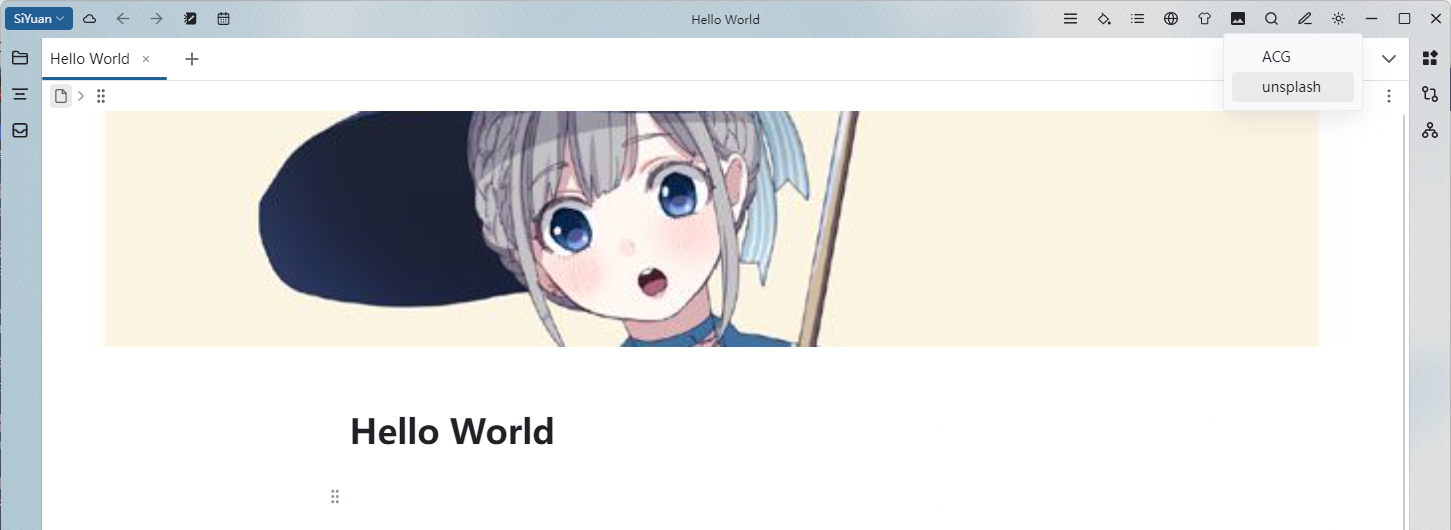
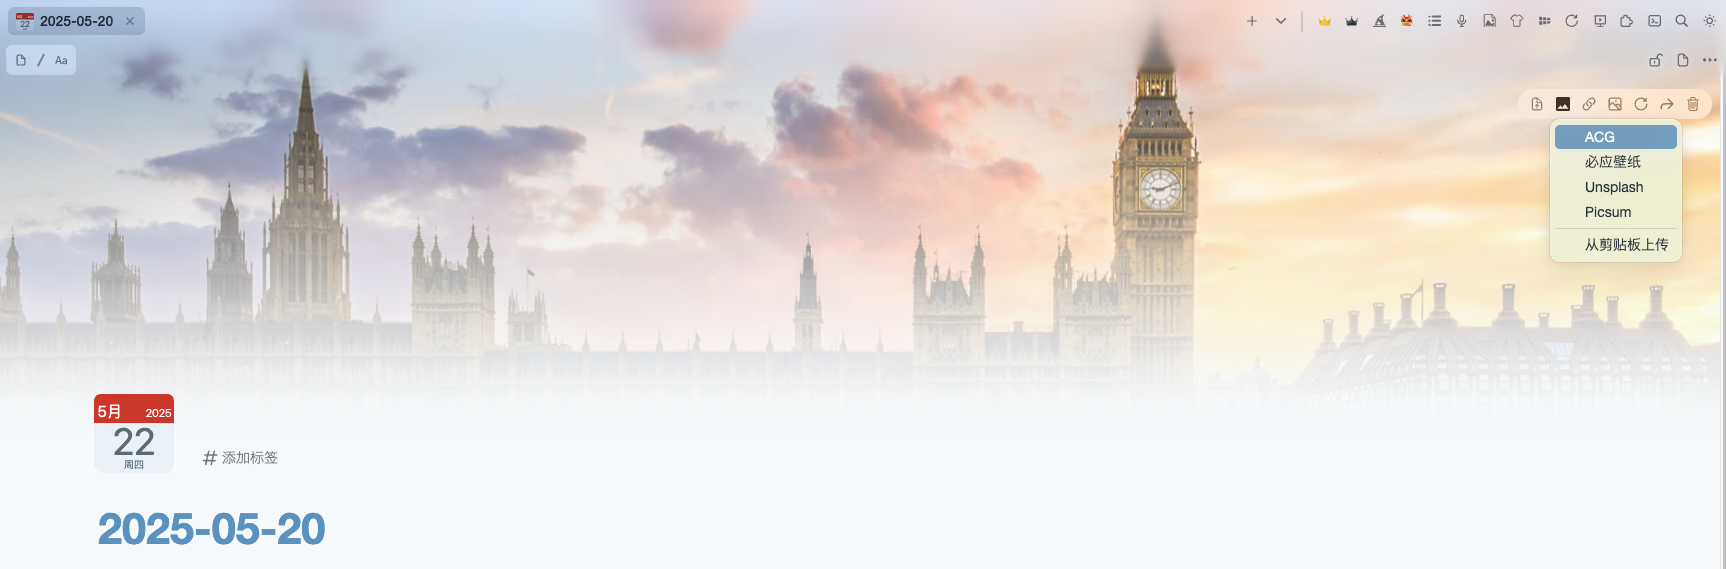
v1.0.0: 全新命题，大改

diff --git a/index.js b/index.js
@@ -1,107 +1,200 @@
-const { Plugin, Menu } = require('siyuan');
+const { Plugin, Menu, showMessage, addIcon } = require('siyuan');
 
-const icon = '<svg viewBox="0 0 1024 1024" version="1.1" xmlns="http://www.w3.org/2000/svg" p-id="1928" width="200" height="200"><path d="M1024 910.222222V113.777778c0-62.577778-51.2-113.777778-113.777778-113.777778H113.777778C51.2 0 0 51.2 0 113.777778v796.444444c0 62.577778 51.2 113.777778 113.777778 113.777778h796.444444c62.577778 0 113.777778-51.2 113.777778-113.777778zM312.888889 597.333333l142.222222 170.666667 199.111111-256L910.222222 853.333333H113.777778l199.111111-256z" p-id="1929"></path></svg>';
+const icon = '<symbol id="icon-more-background" viewBox="0 0 1024 1024" version="1.1" xmlns="http://www.w3.org/2000/symbol" p-id="1928" ><path d="M1024 910.222222V113.777778c0-62.577778-51.2-113.777778-113.777778-113.777778H113.777778C51.2 0 0 51.2 0 113.777778v796.444444c0 62.577778 51.2 113.777778 113.777778 113.777778h796.444444c62.577778 0 113.777778-51.2 113.777778-113.777778zM312.888889 597.333333l142.222222 170.666667 199.111111-256L910.222222 853.333333H113.777778l199.111111-256z" p-id="1929"></path></symbol>';
 
 module.exports = class MoreBackgroundPlugin extends Plugin {
     onload() {
-        const c = this.addTopBar({
-            icon,
-            title: '随机题头图',
-            callback: (e) => {
-                this.showThemesMenu(c.getBoundingClientRect())
-            },
-            position: "right"
-        });
-
         this.types = [
             { label: 'ACG', url: 'https://img.xjh.me/random_img.php?return=302' },
+            { label: '必应壁纸', url: 'https://bing.biturl.top/?format=image&index=random&mkt=zh-CN' },
+            { label: 'Unsplash', url: 'https://unsplash.it/1920/1080?random' },
+            { label: 'Picsum', url: 'https://picsum.photos/1920/1080' }
         ];
 
         this.loadStorage();
+
+        this.addIcons(icon);
+
+        this.eventBus.on('loaded-protyle-static', (e) => {
+            const protyle = e.detail.protyle;
+            const background = protyle.background.element;
+            if (!background) {
+                return;
+            }
+            background.addEventListener('mouseover', (event) => {
+                let el = event.target;
+                if (!el.classList.contains('protyle-top')) {
+                    el = el.closest('.protyle-top');
+                }
+                if (!el) {
+                    return;
+                }
+                if (!el.querySelector('.protyle-icons') || el.querySelector('.protyle-icons > .more-background-icon')) {
+                    return;
+                }
+                const firstIcon = el.querySelector('.protyle-icons > .protyle-icon.ariaLabel');
+                if (!firstIcon) {
+                    return;
+                }
+                const newIcon = document.createElement('span');
+                newIcon.classList.add('protyle-icon');
+                newIcon.classList.add('ariaLabel');
+                newIcon.classList.add('more-background-icon');
+                newIcon.setAttribute('data-link', 'more-background');
+                newIcon.setAttribute('aria-label', this.i18n.moreBackgroundBtn);
+                newIcon.innerHTML = '<svg><use xlink:href="#icon-more-background"></use></svg>';
+                firstIcon.before(newIcon);
+                newIcon.addEventListener('click', (e) => {
+                    this.showThemesMenu(e.target.getBoundingClientRect(), protyle)
+                    e.preventDefault();
+                    e.stopImmediatePropagation();
+                })
+            })
+        })
+
+
     }
 
     async loadStorage() {
         const data = await this.loadData('settings');
         if (!data) {
-            this.saveData('settings', JSON.stringify(this.types));
+            return;
         } else {
-            this.types = typeof data === 'string' ? JSON.parse(data) : data;
+            const types = typeof data === 'string' ? JSON.parse(data) : data;
+            this.types = this.types.concat(types);
         }
     }
 
-    showThemesMenu(c) {
-        console.log(this.types)
+    showThemesMenu(c, protyle) {
         const e = new Menu('MoreBackground');
         this.types.forEach((t) => {
             e.addItem({
                 label: t.label,
-                click: () => this.loadRandomBackground(t.label),
+                icon: null,
+                click: () => this.loadRandomBackground(t.label, protyle),
             })
         })
+        e.addSeparator();
+        e.addItem({
+            label: this.i18n.uploadFromClipboard,
+            icon: 'iconClipboard',
+            click: () => this.uploadFromClipboard(protyle),
+        });
         e.open({ x: c.left, y: c.bottom, isLeft: !1 })
     }
 
-    loadRandomBackground(label) {
+    loadRandomBackground(label, protyle) {
         const url = this.types.find((t) => t.label === label).url;
-        triggerRandomIfNoImg();
-        this.loadImgSetHeader(url);
+        const el = protyle.contentElement;
+        triggerRandomIfNoImg(el);
+        this.loadImgSetHeader(url, protyle);
+        this.lastType = label;
     }
 
-    async loadImgSetHeader(url) {
-        const currentId = getFileID();
-        const headers = document.querySelectorAll(`.protyle-background[data-node-id="${currentId}"] div.protyle-background__img img`)
-        const img = await fetch(url)
-        const imgurl = img.url
-        headers.forEach(
-            el => {
-                el.setAttribute("style", "")
-                el.setAttribute("src", imgurl)
+    async uploadFromClipboard(protyle) {
+        let img;
+        const clipboardItems = await navigator.clipboard.read();
+        for (const clipboardItem of clipboardItems) {
+            if (clipboardItem.types.includes("image/png")) {
+                const blob = await clipboardItem.getType("image/png");
+                const imageURL = URL.createObjectURL(blob);
+                img = imageURL;
+                break;
             }
-        )
-        fetch('/api/attr/setBlockAttrs', {
-            method: 'post',
-            body: JSON.stringify({
-                id: currentId,
-                attrs: {
-                    "title-img": `background-image:url(${imgurl})`
+        }
+        if (!img) {
+            showMessage(this.i18n.noImageInClipboard);
+            return;
+        }
+        const el = protyle.contentElement;
+        triggerRandomIfNoImg(el);
+        this.loadImgBlobSetHeader(img, protyle);
+    }
+
+    async loadImgBlobSetHeader(url, protyle) {
+        const id = protyle.background.ial.id;
+        protyle.background.element.setAttribute('style', 'cursor: wait');
+        let img;
+        try {
+            img = await fetch(url)
+        } catch {
+            showMessage(this.i18n.loadUrlFailed)
+            protyle.background.element.setAttribute('style', 'cursor: wait');
+            return;
+        }
+        const imgurl = img.url
+        try {
+            const res = await fetch(imgurl);
+            const blob = await res.blob();
+            const reader = new FileReader();
+            reader.readAsDataURL(blob);
+            await new Promise((resolve, reject) => {
+                reader.onloadend = () => {
+                    const base64data = reader.result;
+                    fetch('/api/attr/setBlockAttrs', {
+                        method: 'post',
+                        body: JSON.stringify({
+                            id: id,
+                            attrs: {
+                                "title-img": `background-image:url(${base64data})`
+                            }
+                        })
+                    }).finally(() => {
+                        resolve();
+                    })
                 }
-            })
-        })
+                reader.onerror = reject;
+                reader.onabort = reject;
+            });
+        } finally {
+            protyle.background.element.removeAttribute('style');
+        }
+    }
+
+    async loadImgSetHeader(url, protyle) {
+        const id = protyle.background.ial.id;
+        protyle.background.element.setAttribute('style', 'cursor: wait');
+        let img;
+        try {
+            img = await fetch(url)
+        } catch {
+            showMessage(this.i18n.loadUrlFailed)
+            protyle.background.element.setAttribute('style', 'cursor: wait');
+            return;
+        }
+        const imgurl = img.url
+        try {
+            const res = await fetch(imgurl);
+            const blob = await res.blob();
+            const reader = new FileReader();
+            reader.readAsDataURL(blob);
+            await new Promise((resolve, reject) => {
+                reader.onloadend = () => {
+                    const base64data = reader.result;
+                    fetch('/api/attr/setBlockAttrs', {
+                        method: 'post',
+                        body: JSON.stringify({
+                            id: id,
+                            attrs: {
+                                "title-img": `background-image:url(${base64data})`
+                            }
+                        })
+                    }).finally(() => {
+                        resolve();
+                    })
+                }
+                reader.onerror = reject;
+                reader.onabort = reject;
+            });
+        } finally {
+            protyle.background.element.removeAttribute('style');
+        }
     }
 
 }
 
-function getFileID() {
-    //获取当前页面
-    const currentPage = getCurrentPage();
-    //获取当前页面id
-    const currentPageID = currentPage.querySelector(
-        "span.protyle-breadcrumb__item--active"
-    ).getAttribute("data-node-id");
-
-    return currentPageID;
-}
-
-function triggerRandomIfNoImg() {
-    const currentPage = getCurrentPage();
+function triggerRandomIfNoImg(currentPage) {
     currentPage.querySelector('.protyle-background__img > img.fn__none')?.classList.remove('fn__none');
     currentPage.querySelector('.protyle-background')?.setAttribute('style', 'min-height: 30vh;');
     currentPage.querySelector('.protyle-background__img > .protyle-icons > span[data-type="position"]')?.classList.remove('fn__none');
-}
-
-function getCurrentPage() {
-    var currentScreen;
-    var currentPage;
-    try {
-        //获取当前屏幕
-        currentScreen = document.querySelector(".layout__wnd--active");
-        //获取当前页面
-        currentPage = currentScreen.querySelector(
-            ".fn__flex-1.protyle:not(.fn__none)"
-        );
-        return currentPage;
-    } catch (e) {
-        console.error(`未能获取到页面焦点！`)
-    }
-    throw new Error("未能获取到页面焦点！");
 }

diff --git a/README.md b/README.md
@@ -1,8 +1,23 @@
-# More Background
+# 题头图Plus
 
-随机题头图，点击当前文档空白处，再点击顶栏右上角图标选择类型。
+题头图增强插件，支持多个源的题头图。支持从剪贴板直接导入题头图
 
-## 自定义
+> 预览图中为搭配Asri主题的顶栏融合效果
+
+## 使用方法
+
+1. 安装插件
+2. 无题头图文档点击题头的"添加题头图“
+3. 点击题头图按钮组中的题头图Plus按钮，从按钮中选择一个数据源，或从剪贴板粘贴
+
+## 内置数据源
+
+- ACG
+- Bing今日壁纸
+- Unsplash
+- Picsum
+
+## 自定义数据源
 
 找到工作空间/data/storage/petal/siyuan-plugin-more-background/settings文件，使用记事本打开，按照JSON格式，添加label和url即可。
 
